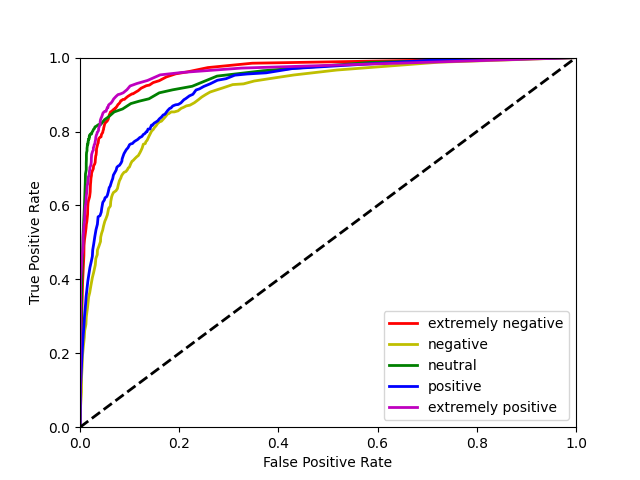
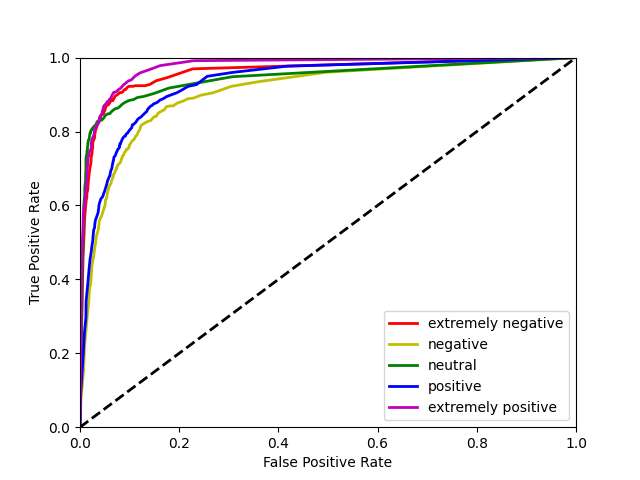
Added last update to code

Changed region(s): [[0.125, 0.125, 0.8438, 0.8125]]

diff --git a/Source/Utility/generation.py b/Source/Utility/generation.py
@@ -2,7 +2,7 @@ import tensorflow as tf
 from tensorflow import keras
 from transformers import TFBertForSequenceClassification
 
-from Source.Utility.constants import MAXIMUM_SENTENCE_LENGTH
+from Source.Utility.constants import MAXIMUM_SENTENCE_LENGTH, NUMBER_OF_WORDS
 
 
 class Generator:
@@ -11,37 +11,67 @@ class Generator:
     """
 
     @staticmethod
-    def generate_simple_gru_model():
+    def generate_simple_gru_model(hyperparameters):
         """
-        Function that generates a simple GRU model
-        :param maximum_sentence_length: The maximum possible length of a sentence
+        Function that generates a simple GRU model from hyperparameters
         :return: The GRU model
         """
         model = keras.Sequential()
-        model.add(keras.layers.Embedding(10000, 16, input_length=MAXIMUM_SENTENCE_LENGTH))
-        model.add(keras.layers.GRU(64, dropout=0.2))
+
+        hp_output_dim = hyperparameters.Int('embedding_output_dim', min_value=8, max_value=32, step=8)
+        model.add(keras.layers.Embedding(
+            input_dim=NUMBER_OF_WORDS,
+            output_dim=hp_output_dim,
+            input_length=MAXIMUM_SENTENCE_LENGTH
+        ))
+
+        hp_hidden_units = hyperparameters.Int('gru_hidden_units', min_value=8, max_value=128, step=8)
+        hp_dropout_rate = hyperparameters.Float('gru_dropout', min_value=0, max_value=0.5, step=0.1)
+        model.add(keras.layers.GRU(
+            units=hp_hidden_units,
+            dropout=hp_dropout_rate
+        ))
+
         model.add(keras.layers.Dense(5))
+
+        hp_learning_rate = hyperparameters.Choice('learning_rate', values=[1e-2, 1e-3, 1e-4, 1e-5])
+        model.compile(
+            optimizer=keras.optimizers.Adam(learning_rate=hp_learning_rate),
+            loss=keras.losses.BinaryCrossentropy(from_logits=True),
+            metrics=['accuracy']
+        )
+
         return model
 
     @staticmethod
-    def generate_bidirectional_gru_model():
+    def generate_bidirectional_gru_model(hyperparameters):
         """
-        Function that generates a bidirectional GRU model
-        :param maximum_sentence_length: The maximum possible length of a sentence
+        Function that generates a bidirectional GRU model from hyperparameters
         :return: The GRU model
         """
         model = keras.Sequential()
-        model.add(keras.layers.Embedding(10000, 16, input_length=MAXIMUM_SENTENCE_LENGTH))
-        model.add(keras.layers.Bidirectional(keras.layers.GRU(64, dropout=0.2)))
-        model.add(keras.layers.Dense(5))
-        return model
 
-    @staticmethod
-    def generate_transformer_bert_model():
-        transformer = TFBertForSequenceClassification.from_pretrained('bert-base-uncased', num_labels=5, output_attentions=False, output_hidden_states=False)
-        input_ids = tf.keras.layers.Input(shape=(MAXIMUM_SENTENCE_LENGTH,), name='input_token', dtype='int32')
-        input_masks_ids = tf.keras.layers.Input(shape=(MAXIMUM_SENTENCE_LENGTH,), name='masked_token', dtype='int32')
-        transformer_output = transformer(input_ids, input_masks_ids)[0]
-        transformer_output = tf.keras.layers.Dense(5, activation='sigmoid')(transformer_output)
-        model = tf.keras.Model(inputs=[input_ids, input_masks_ids], outputs=transformer_output)
+        hp_output_dim = hyperparameters.Int('embedding_output_dim', min_value=8, max_value=32, step=8)
+        model.add(keras.layers.Embedding(
+            input_dim=NUMBER_OF_WORDS,
+            output_dim=hp_output_dim,
+            input_length=MAXIMUM_SENTENCE_LENGTH
+        ))
+
+        hp_hidden_units = hyperparameters.Int('gru_hidden_units', min_value=8, max_value=128, step=8)
+        hp_dropout_rate = hyperparameters.Float('gru_dropout', min_value=0, max_value=0.5, step=0.1)
+        model.add(keras.layers.Bidirectional(keras.layers.GRU(
+            units=hp_hidden_units,
+            dropout=hp_dropout_rate
+        )))
+
+        model.add(keras.layers.Dense(5))
+
+        hp_learning_rate = hyperparameters.Choice('learning_rate', values=[1e-2, 1e-3, 1e-4, 1e-5])
+        model.compile(
+            optimizer=keras.optimizers.Adam(learning_rate=hp_learning_rate),
+            loss=keras.losses.BinaryCrossentropy(from_logits=True),
+            metrics=['accuracy']
+        )
+
         return model

diff --git a/Source/Runnable/run_gru_bidirectional.py b/Source/Runnable/run_gru_bidirectional.py
@@ -1,5 +1,7 @@
+import os
 import numpy as np
 import tensorflow as tf
+import kerastuner as kt
 from tensorflow.keras.preprocessing.sequence import pad_sequences
 from tensorflow.keras.preprocessing.text import Tokenizer
 
@@ -7,29 +9,48 @@ from Source.Utility.constants import *
 from Source.Utility.extraction import ResultsExtractor
 from Source.Utility.generation import Generator
 from Source.Utility.loading import load_simple_sentence_dataset
-from Source.Utility.visualization import save_per_class_metrics, save_per_class_roc_curves
+from Source.Utility.visualization import save_per_class_metrics, save_per_class_roc_curves, save_macro_averaged_metrics, \
+    save_best_hyperparameters
+
+os.environ["TF_FORCE_GPU_ALLOW_GROWTH"] = "true"
+physical_devices = tf.config.list_physical_devices('GPU')
+tf.config.experimental.set_memory_growth(physical_devices[0], enable=True)
 
 # Load the dataset
 train_x, train_y, test_x, test_y = load_simple_sentence_dataset()
 
 # Tokenize the sentences
-tokenizer = Tokenizer(num_words=10000, oov_token=True)
+tokenizer = Tokenizer(num_words=NUMBER_OF_WORDS, oov_token=True)
 tokenizer.fit_on_texts(train_x.tolist())
 train_x = tokenizer.texts_to_sequences(train_x)
 test_x = tokenizer.texts_to_sequences(test_x)
 
 # Adds padding to tokenized sentences not at max length
+# and reshape labels to work with tensorflow
 train_x = pad_sequences(train_x, maxlen=MAXIMUM_SENTENCE_LENGTH)
-test_x = pad_sequences(test_x, maxlen=MAXIMUM_SENTENCE_LENGTH)
-
-# Reshape labels to work with tensorflow
 train_y = np.asarray(train_y).astype('float32').reshape((-1, 5))
+test_x = pad_sequences(test_x, maxlen=MAXIMUM_SENTENCE_LENGTH)
 test_y = np.asarray(test_y).astype('float32').reshape((-1, 5))
 
-# Create the model
-model = Generator.generate_bidirectional_gru_model()
+# Define a hyperband for searching hyperparameters
+# (If search has already been done it will simply load from the directory)
+tuner = kt.Hyperband(
+    Generator.generate_bidirectional_gru_model,
+    objective='val_accuracy',
+    max_epochs=5,
+    factor=2,
+    directory=PATH_TO_MODEL_GRU_BIDIRECTIONAL_HYPERPARAMETER,
+    project_name=HYPER_PARAMETER_PROJECT_NAME
+)
 
-# Create a callback that saves the model's weights every 5 epochs
+# Perform search for best hyperparameters (If not already done)
+tuner.search(train_x, train_y, epochs=5, validation_split=0.10)
+
+# Get the optimal hyperparameters, and use those to create a model for training
+best_hyperparameters = tuner.get_best_hyperparameters()[0]
+model = Generator.generate_bidirectional_gru_model(best_hyperparameters)
+
+# Create a callback that saves the model's weights every epoch
 checkpoint_path = PATH_TO_MODEL_GRU_BIDIRECTIONAL_CHECKPOINTS + "/cp-{epoch:04d}.ckpt"
 cp_callback = tf.keras.callbacks.ModelCheckpoint(
     filepath=checkpoint_path,
@@ -39,15 +60,14 @@ cp_callback = tf.keras.callbacks.ModelCheckpoint(
     period=1
 )
 
-# Compile the model
-model.compile(loss=tf.keras.losses.BinaryCrossentropy(from_logits=True), optimizer='adam', metrics=['accuracy'])
-
 # Fit the model and save it
-model.fit(train_x, train_y, epochs=5, batch_size=10, callbacks=[cp_callback], validation_split=0.10)
+model.fit(train_x, train_y, epochs=5, batch_size=64, callbacks=[cp_callback], validation_split=0.10)
 model.save(PATH_TO_MODEL_GRU_BIDIRECTIONAL_SAVE)
 
 # Save the results
 predictions = model.predict(x=test_x)
 results = ResultsExtractor(predictions)
+save_macro_averaged_metrics(results.retrieve_per_class_metrics(), PATH_TO_RESULT_GRU_BIDIRECTIONAL)
 save_per_class_metrics(results.retrieve_per_class_metrics(), PATH_TO_RESULT_GRU_BIDIRECTIONAL)
 save_per_class_roc_curves(results.retrieve_per_class_roc(), PATH_TO_RESULT_GRU_BIDIRECTIONAL)
+save_best_hyperparameters(best_hyperparameters, PATH_TO_RESULT_GRU_BIDIRECTIONAL)

diff --git a/Source/Runnable/run_gru_simple.py b/Source/Runnable/run_gru_simple.py
@@ -1,5 +1,7 @@
+import os
 import numpy as np
 import tensorflow as tf
+import kerastuner as kt
 from tensorflow.keras.preprocessing.sequence import pad_sequences
 from tensorflow.keras.preprocessing.text import Tokenizer
 
@@ -7,29 +9,47 @@ from Source.Utility.constants import *
 from Source.Utility.extraction import ResultsExtractor
 from Source.Utility.generation import Generator
 from Source.Utility.loading import load_simple_sentence_dataset
-from Source.Utility.visualization import save_per_class_metrics, save_per_class_roc_curves
+from Source.Utility.visualization import save_per_class_metrics, save_per_class_roc_curves, save_macro_averaged_metrics, save_best_hyperparameters
+
+os.environ["TF_FORCE_GPU_ALLOW_GROWTH"] = "true"
+physical_devices = tf.config.list_physical_devices('GPU')
+tf.config.experimental.set_memory_growth(physical_devices[0], enable=True)
 
 # Load the dataset
 train_x, train_y, test_x, test_y = load_simple_sentence_dataset()
 
 # Tokenize the sentences
-tokenizer = Tokenizer(num_words=10000, oov_token=True)
+tokenizer = Tokenizer(num_words=NUMBER_OF_WORDS, oov_token=True)
 tokenizer.fit_on_texts(train_x.tolist())
 train_x = tokenizer.texts_to_sequences(train_x)
 test_x = tokenizer.texts_to_sequences(test_x)
 
 # Adds padding to tokenized sentences not at max length
+# and reshape labels to work with tensorflow
 train_x = pad_sequences(train_x, maxlen=MAXIMUM_SENTENCE_LENGTH)
-test_x = pad_sequences(test_x, maxlen=MAXIMUM_SENTENCE_LENGTH)
-
-# Reshape labels to work with tensorflow
 train_y = np.asarray(train_y).astype('float32').reshape((-1, 5))
+test_x = pad_sequences(test_x, maxlen=MAXIMUM_SENTENCE_LENGTH)
 test_y = np.asarray(test_y).astype('float32').reshape((-1, 5))
 
-# Create the model
-model = Generator.generate_simple_gru_model()
+# Define a hyperband for searching hyperparameters
+# (If search has already been done it will simply load from the directory)
+tuner = kt.Hyperband(
+    Generator.generate_simple_gru_model,
+    objective='val_accuracy',
+    max_epochs=5,
+    factor=2,
+    directory=PATH_TO_MODEL_GRU_SIMPLE_HYPERPARAMETER,
+    project_name=HYPER_PARAMETER_PROJECT_NAME
+)
 
-# Create a callback that saves the model's weights every 5 epochs
+# Perform search for best hyperparameters (If not already done)
+tuner.search(train_x, train_y, epochs=5, validation_split=0.10)
+
+# Get the optimal hyperparameters, and use those to create a model for training
+best_hyperparameters = tuner.get_best_hyperparameters()[0]
+model = Generator.generate_simple_gru_model(best_hyperparameters)
+
+# Create a callback that saves the model's weights every epoch
 checkpoint_path = PATH_TO_MODEL_GRU_SIMPLE_CHECKPOINTS + "/cp-{epoch:04d}.ckpt"
 cp_callback = tf.keras.callbacks.ModelCheckpoint(
     filepath=checkpoint_path,
@@ -39,15 +59,14 @@ cp_callback = tf.keras.callbacks.ModelCheckpoint(
     period=1
 )
 
-# Compile the model
-model.compile(loss=tf.keras.losses.BinaryCrossentropy(from_logits=True), optimizer='adam', metrics=['accuracy'])
-
 # Fit the model and save it
-model.fit(train_x, train_y, epochs=5, batch_size=10, callbacks=[cp_callback], validation_split=0.10)
+model.fit(train_x, train_y, epochs=5, batch_size=64, callbacks=[cp_callback], validation_split=0.10)
 model.save(PATH_TO_MODEL_GRU_SIMPLE_SAVE)
 
 # Save the results
 predictions = model.predict(x=test_x)
 results = ResultsExtractor(predictions)
+save_macro_averaged_metrics(results.retrieve_per_class_metrics(), PATH_TO_RESULT_GRU_SIMPLE)
 save_per_class_metrics(results.retrieve_per_class_metrics(), PATH_TO_RESULT_GRU_SIMPLE)
 save_per_class_roc_curves(results.retrieve_per_class_roc(), PATH_TO_RESULT_GRU_SIMPLE)
+save_best_hyperparameters(best_hyperparameters, PATH_TO_RESULT_GRU_SIMPLE)

diff --git a/Source/Runnable/run_bert.py b/Source/Runnable/run_bert.py
@@ -1,3 +1,4 @@
+import os
 import numpy as np
 import tensorflow as tf
 from transformers import BertTokenizer
@@ -6,7 +7,11 @@ from transformers import TFBertForSequenceClassification
 from Source.Utility.constants import *
 from Source.Utility.extraction import ResultsExtractor
 from Source.Utility.loading import load_simple_sentence_dataset
-from Source.Utility.visualization import save_per_class_roc_curves, save_per_class_metrics
+from Source.Utility.visualization import save_per_class_roc_curves, save_per_class_metrics, save_macro_averaged_metrics
+
+os.environ["TF_FORCE_GPU_ALLOW_GROWTH"] = "true"
+physical_devices = tf.config.list_physical_devices('GPU')
+tf.config.experimental.set_memory_growth(physical_devices[0], enable=True)
 
 # Load the dataset
 train_x, train_y, test_x, test_y = load_simple_sentence_dataset()
@@ -24,7 +29,7 @@ test_y = np.asarray(test_y).astype('float32').reshape((-1, 5))
 model = TFBertForSequenceClassification.from_pretrained('bert-base-uncased', num_labels=5, output_attentions=False, output_hidden_states=False)
 
 # Create a callback that saves the model's weights every 5 epochs
-checkpoint_path = PATH_TO_MODEL_BERT_CHECKPOINTS + "/cp-{epoch:04d}.ckpt"
+checkpoint_path = PATH_TO_MODEL_TRANSFORMER_BERT_CHECKPOINTS + "/cp-{epoch:04d}.ckpt"
 cp_callback = tf.keras.callbacks.ModelCheckpoint(
     filepath=checkpoint_path,
     verbose=1,
@@ -38,10 +43,11 @@ model.compile(loss=tf.keras.losses.BinaryCrossentropy(from_logits=True), optimiz
 
 # Fit the model and save it
 model.fit(x=train_x.values(), y=train_y, epochs=5, batch_size=8, callbacks=[cp_callback], validation_split=0.10)
-model.save_pretrained(PATH_TO_MODEL_BERT_SAVED)
+model.save_pretrained(PATH_TO_MODEL_TRANSFORMER_BERT_SAVE)
 
 # Save the results
 predictions = model.predict(x=test_x.values())[0]
 results = ResultsExtractor(predictions)
-save_per_class_metrics(results.retrieve_per_class_metrics(), PATH_TO_RESULT_BERT)
-save_per_class_roc_curves(results.retrieve_per_class_roc(), PATH_TO_RESULT_BERT)
+save_macro_averaged_metrics(results.retrieve_per_class_metrics(), PATH_TO_RESULT_TRANSFORMER_BERT)
+save_per_class_metrics(results.retrieve_per_class_metrics(), PATH_TO_RESULT_TRANSFORMER_BERT)
+save_per_class_roc_curves(results.retrieve_per_class_roc(), PATH_TO_RESULT_TRANSFORMER_BERT)

diff --git a/Source/Utility/visualization.py b/Source/Utility/visualization.py
@@ -26,7 +26,7 @@ def save_per_class_roc_curves(per_class_roc_curves, filepath: str):
 def save_per_class_metrics(per_class_metrics, filepath: str):
     header = ["Metric"]
     for class_number, class_metric in enumerate(per_class_metrics):
-        header.append("Class [" + str(class_number) + "]")
+        header.append("Class [" + class_number_to_string_label(class_number) + "]")
 
     row_list = []
     for index, metric_name in enumerate(list(per_class_metrics[0].keys())):
@@ -39,4 +39,34 @@ def save_per_class_metrics(per_class_metrics, filepath: str):
 
     with open(filepath + '/' + 'per_class_metrics.txt', 'w') as file:
         file.write(tabular)
+        file.close()
+
+
+def save_macro_averaged_metrics(per_class_metrics, filepath: str):
+    header = ["Metric", "Macro-Averaging"]
+
+    row_list = []
+    for index, metric_name in enumerate(list(per_class_metrics[0].keys())):
+        row_list.append([metric_name])
+
+        macro_number = 0
+        number_of_classes = len(per_class_metrics)
+        for class_number in range(0, number_of_classes):
+            macro_number += per_class_metrics[class_number][metric_name]
+        macro_number /= number_of_classes
+        row_list[index].append('{:.2f}'.format(macro_number))
+
+    tabular: str = tabulate(row_list, headers=header, tablefmt='orgtbl', numalign="right", floatfmt=".2f")
+
+    with open(filepath + '/' + 'macro_metrics.txt', 'w') as file:
+        file.write(tabular)
+        file.close()
+
+
+def save_best_hyperparameters(hyperparameters, filepath: str):
+    with open(filepath + '/' + 'best_hyperparameters.txt', 'w') as file:
+        file.write('embedding_output_dim: {:.5f}\n'.format(hyperparameters.get('embedding_output_dim')))
+        file.write('gru_hidden_units: {:.5f}\n'.format(hyperparameters.get('gru_hidden_units')))
+        file.write('gru_dropout: {:.5f}\n'.format(hyperparameters.get('gru_dropout')))
+        file.write('learning_rate: {:.5f}\n'.format(hyperparameters.get('learning_rate')))
         file.close()

diff --git a/Source/Utility/constants.py b/Source/Utility/constants.py
@@ -1,12 +1,21 @@
 PATH_TO_RAW_TEST_DATA: str = './Resources/Data/Raw/Corona_NLP_test.csv'
 PATH_TO_RAW_TRAIN_DATA: str = './Resources/Data/Raw/Corona_NLP_train.csv'
+
 PATH_TO_MODEL_GRU_SIMPLE_SAVE: str = './Resources/Models/GRU/Simple/Saved'
 PATH_TO_MODEL_GRU_BIDIRECTIONAL_SAVE: str = './Resources/Models/GRU/Bidirectional/Saved'
+PATH_TO_MODEL_TRANSFORMER_BERT_SAVE: str = './Resources/Models/Transformer/BERT/Saved'
+
 PATH_TO_MODEL_GRU_SIMPLE_CHECKPOINTS: str = './Resources/Models/GRU/Simple/Checkpoints'
 PATH_TO_MODEL_GRU_BIDIRECTIONAL_CHECKPOINTS: str = './Resources/Models/GRU/Bidirectional/Checkpoints'
-PATH_TO_MODEL_BERT_CHECKPOINTS: str = './Resources/Models/Transformer/BERT/Checkpoints'
-PATH_TO_MODEL_BERT_SAVED: str = './Resources/Models/Transformer/BERT/Saved'
+PATH_TO_MODEL_TRANSFORMER_BERT_CHECKPOINTS: str = './Resources/Models/Transformer/BERT/Checkpoints'
+
+PATH_TO_MODEL_GRU_SIMPLE_HYPERPARAMETER: str = './Resources/Models/GRU/Simple'
+PATH_TO_MODEL_GRU_BIDIRECTIONAL_HYPERPARAMETER: str = './Resources/Models/GRU/Bidirectional'
+
 PATH_TO_RESULT_GRU_SIMPLE: str = './Resources/Results/GRU/Simple'
 PATH_TO_RESULT_GRU_BIDIRECTIONAL: str = './Resources/Results/GRU/Bidirectional'
-PATH_TO_RESULT_BERT: str = './Resources/Results/Transformer/BERT'
+PATH_TO_RESULT_TRANSFORMER_BERT: str = './Resources/Results/Transformer/BERT'
+
 MAXIMUM_SENTENCE_LENGTH: int = 344
+NUMBER_OF_WORDS = 10000
+HYPER_PARAMETER_PROJECT_NAME = 'Hyperparameter Search'
